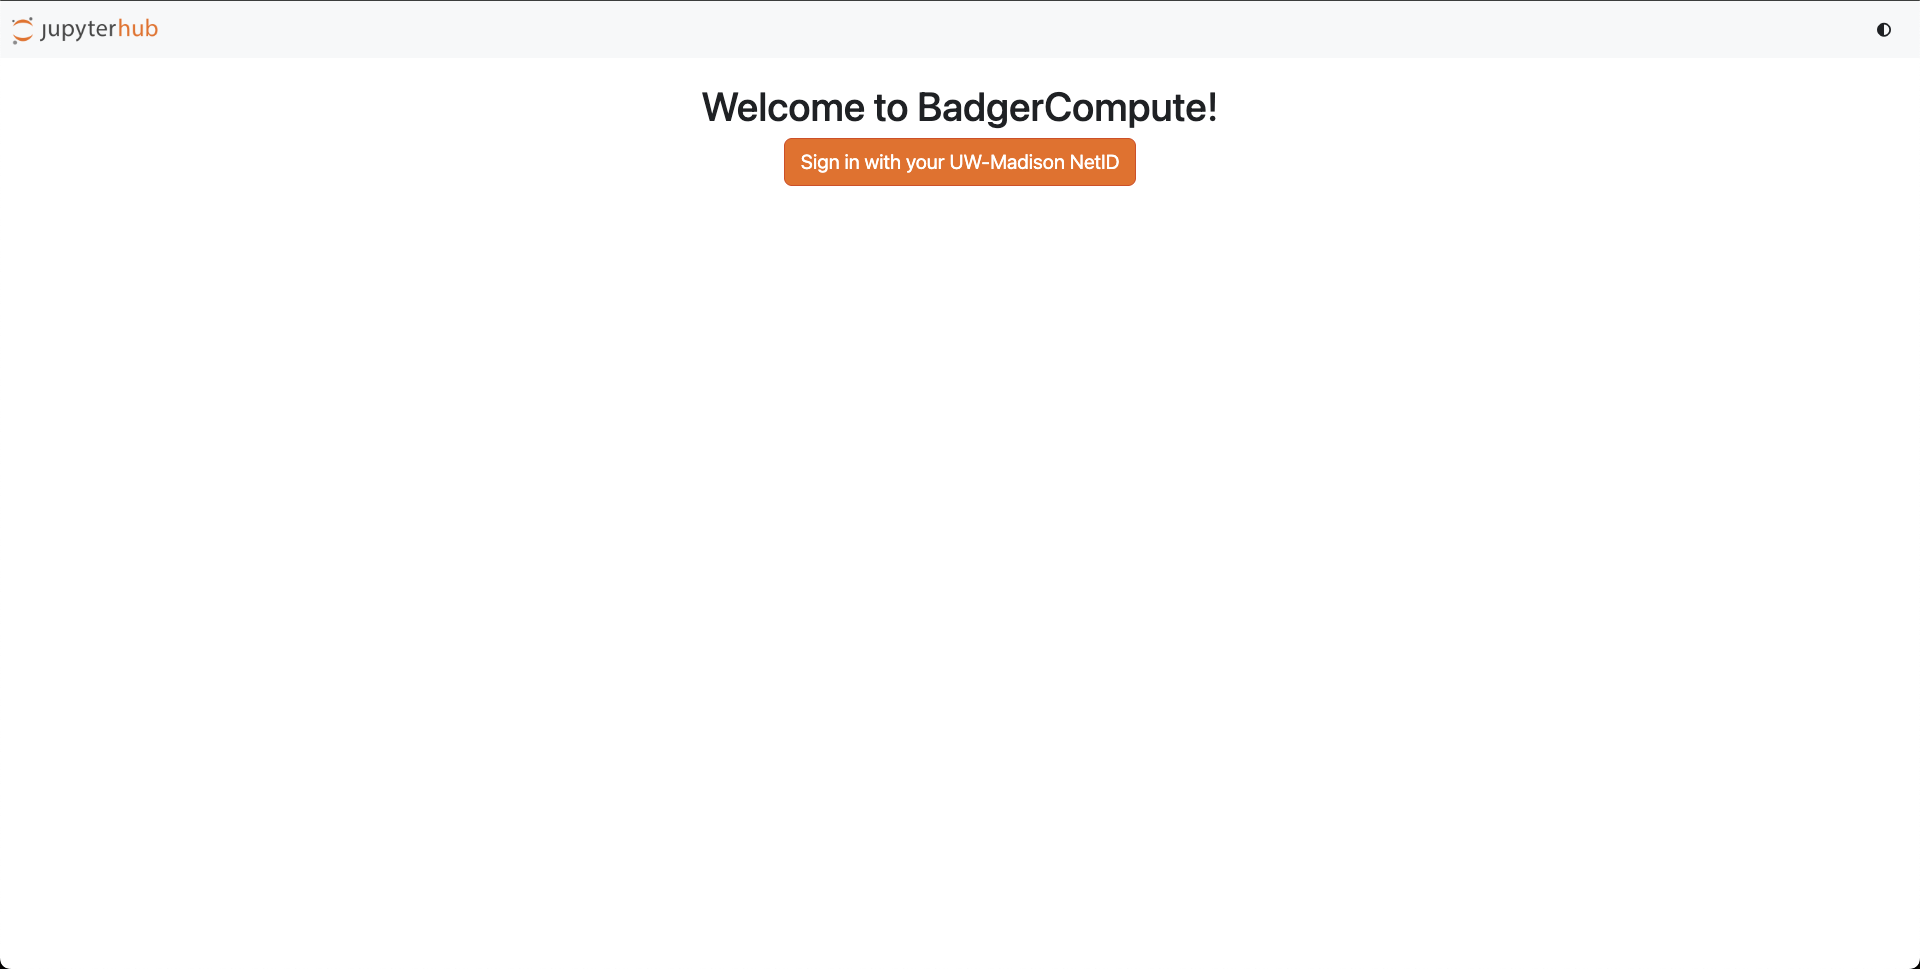
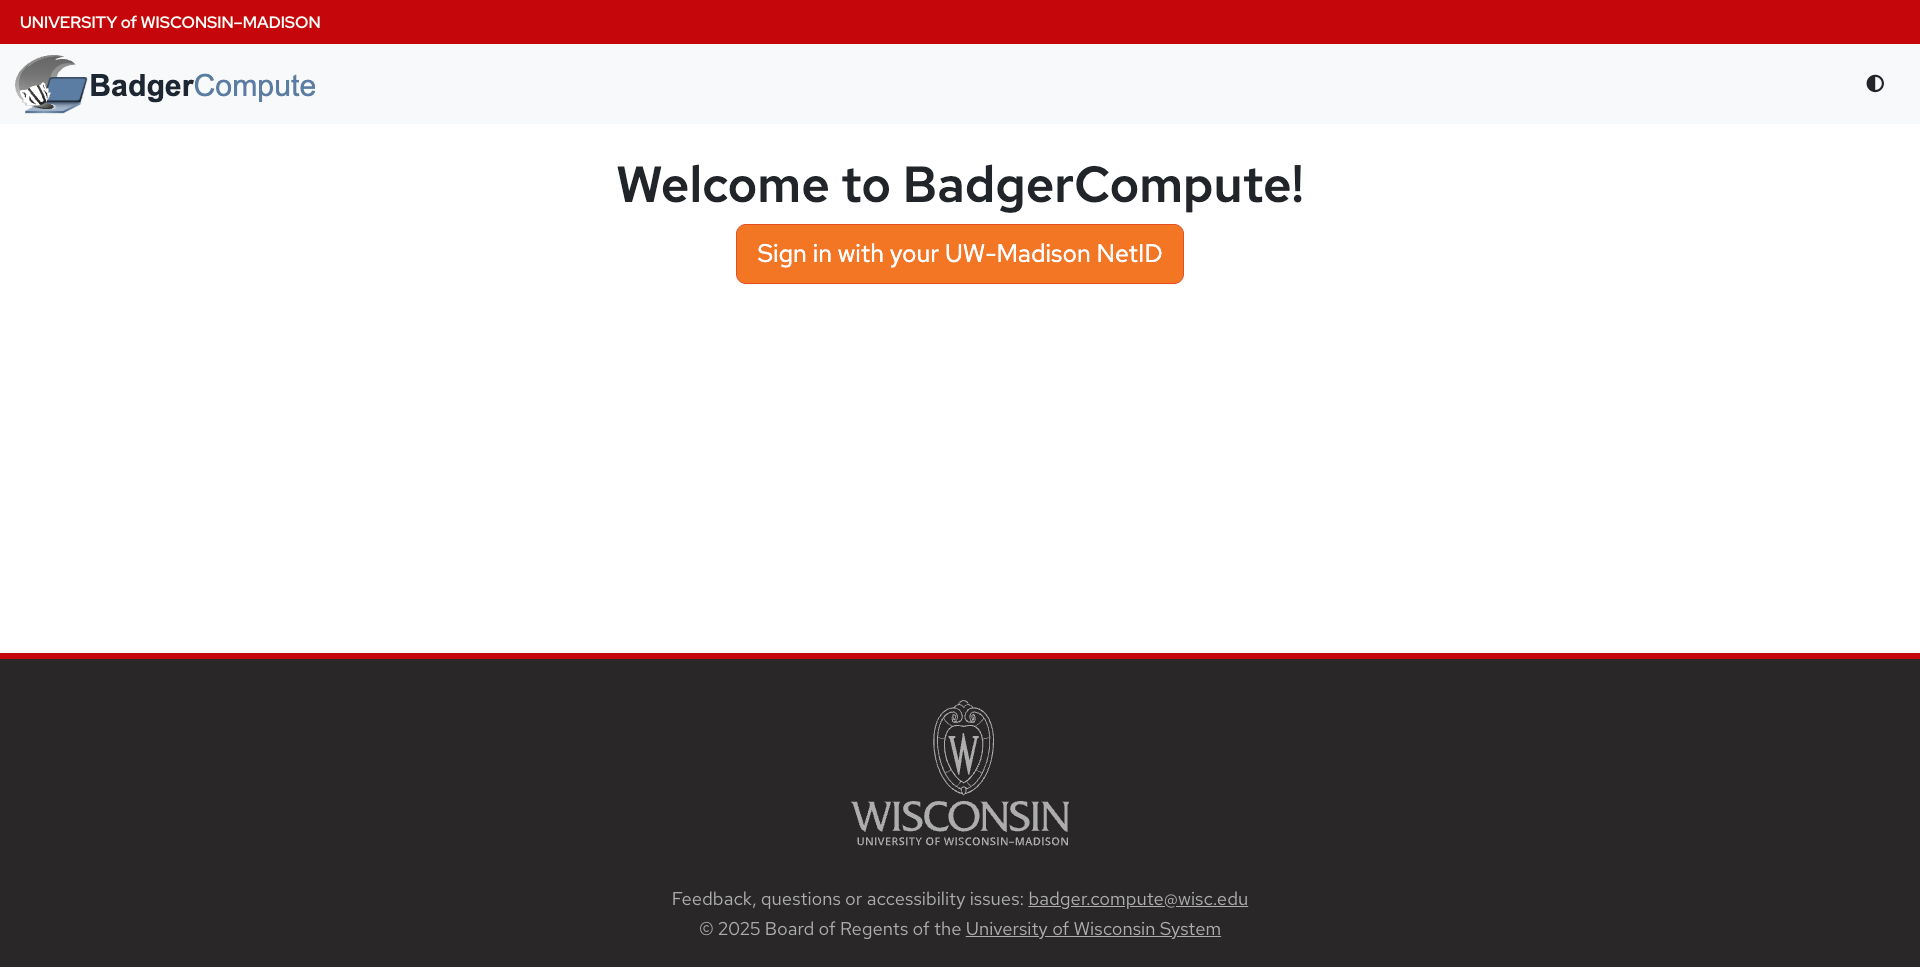
Updated login guide with alerts for 2FA and troubleshooting tips and images.

diff --git a/docs/login.md b/docs/login.md
@@ -1,3 +1,7 @@
+import Alert from "@mui/material/Alert";
+import AlertTitle from "@mui/material/AlertTitle";
+import AlertDropDown from "@/components/AlertDropDown";
+
 # Log in to BadgerCompute
 
 Use this guide to sign in to **BadgerCompute**, our Jupyter notebook service, and launch your notebook server.
@@ -17,25 +21,28 @@ Use this guide to sign in to **BadgerCompute**, our Jupyter notebook service, an
 
 1. **Open the BadgerCompute Launch URL**
     
-    Visit the BadgerCompute launch page:  
-    [launch.badgercompute.wisc.edu](https://launch.badgercompute.wisc.edu){ .md-button }
+    Visit the BadgerCompute launch page:<br>  
+    <a href="https://launch.badgercompute.wisc.edu" >
+    <img src="/docs/get-started-login.png" alt="Log in an launch BadgerCompute" style={{height: '120px', width: 'auto'}} />
+    </a>
 
 2. **Click “Sign in with your UW-Madison NetID”**
 
     You’ll be redirected to the **UW-Madison Single sign-on** login page. Login with your NetID and password.
     
     ![Welcome-light](/docs/login-guide/Welcome-to-BadgerCompute-light.png)
-    ![Welcome-dark](/docs/login-guide/Welcome-to-BadgerCompute-Dark.png)
 
 3. **Return to BadgerCompute**
 
     After successful SSO, you’ll land back on the **JupyterHub** page for BadgerCompute.
     
     ![Image title](/docs/login-guide/netid-login.png)
-
-    ??? tip "Two Factor Authentication (2FA)"
-        You will likely be prompted for 2FA to approve the sign-in via Duo or your chosen method. <br><br>
+    
+    <Alert severity="info" sx={{ mb: 3 }}>
+      <AlertTitle>Two Factor Authentication (2FA)</AlertTitle>
+      You will likely be prompted for 2FA to approve the sign-in via Duo or your chosen method. <br><br>
         ![Image title](/docs/login-guide/Duo-code.png)
+    </Alert>
 
 4. **(First time only) Review/accept any terms (if applicable)** 
 
@@ -51,9 +58,8 @@ Use this guide to sign in to **BadgerCompute**, our Jupyter notebook service, an
      * Other Docker image (advanced)
      * Build your own image (advanced)
 
-     ![Image title](/docs/login-guide/select-notebook-template-light.png#only-light)
-     ![Image title](/docs/login-guide/select-notebook-template-dark.png#only-dark)
-   
+     ![Image title](/docs/login-guide/select-notebook-template-light.png) 
+
      Select the option that fits your workload and click **Start**.
 
 
@@ -61,17 +67,18 @@ Use this guide to sign in to **BadgerCompute**, our Jupyter notebook service, an
 
     You’ll see **“Your server is starting up…”** for ~30–90 seconds (longer during peak times). When ready, you’ll land in **JupyterLab**.
     
-    ![Image title](/docs/login-guide/notebook-starting-light.png#only-light)
-    ![Image title](/docs/login-guide/notebook-starting-dark.png#only-dark)
-   
-    ???+ warning "If it takes too long"
-        If it takes >3 minutes, refresh the page once. If it still doesn’t start, try a different image. Please note, servers may take longer to start during peak usage times. BadgerCompute is a shared resource and availability is not guaranteed.
+    ![Image title](/docs/login-guide/notebook-starting-light.png)
+
+    <Alert severity="info" sx={{ mb: 3 }}>
+      <AlertTitle>If it takes too long</AlertTitle>
+      YIf it takes >3 minutes, refresh the page once. If it still doesn’t start, try a different image. Please note, servers may take longer to start during peak usage times. BadgerCompute is a shared resource and availability is not guaranteed.
+    </Alert>
 
 9. **You’re in!** Start working in JupyterLab.
     
     You can create notebooks, open terminals, and manage files. 
     
-    ![Image title](/docs/login-guide/jupyter-lab.png){ align=left }
+    ![Image title](/docs/login-guide/jupyter-lab.png)
 
 
 ## After you log in
@@ -81,24 +88,29 @@ data analysis!
 - **Your files live in your home directory.** Anything under your home persists across restarts unless otherwise noted by your site’s storage policy.
 - **To end your session:** _File → Log Out_ (JupyterLab) and optionally **Stop My Server** on the Hub page to free resources.
 
-!!! tip "Come back later"
-    Bookmark the link [launch.badgercompute.wisc.edu](https://launch.badgercompute.wisc.edu). When you return, you’ll usually go straight in via SSO unless your session expired (you’ll be prompted to sign in again). Your notebook may be stopped if idle, but files in your `/work` directory persist for 30 days.
+<Alert severity="success" sx={{ mb: 3 }}>
+  <AlertTitle>Come back later</AlertTitle>
+  Bookmark the link [launch.badgercompute.wisc.edu](https://launch.badgercompute.wisc.edu). When you return, you’ll usually go straight in via SSO unless your session expired (you’ll be prompted to sign in again). Your notebook may be stopped if idle, but files in your `/work` directory persist for 30 days.
+</Alert>
 
 ## Troubleshooting
 
-??? summary "I get a "**Not Authorized**" page"
+<AlertDropDown title="I get a **Not Authorized** page" severity="error">
     Your account may not be provisioned yet. You must complete the Canvas course and pass all checks before your account can be created. Accounts may take upto 24hrs to be activated. If you believe this is in error, contact support (see below).
+</AlertDropDown>
 
-??? summary "Stuck on "**Server starting…**""
-    Refresh the page once. If it persists for >2–3 minutes:<br>
+<AlertDropDown title="Stuck on **Server starting…**" severity="error">
+	Refresh the page once. If it persists for >2–3 minutes:<br>
     1) Click **Stop My Server**,  
     2) Click **Start My Server** again,  
     3) If it still fails, try a different server size or image and contact support with the approximate time and chosen options.
-    
+    <br><br>
     **Note: Servers may take longer to start during peak usage times. BadgerCompute is a shared resource and availability is not guaranteed.**
+</AlertDropDown>
 
-??? summary "I am getting a "400 : Bad Request" error"
+<AlertDropDown title="I am getting a 400: Bad Request" error" severity="error">
     This can happen if you already have an active session and try to start a new one. You can return to your previous session or stop it from the [Hub page](https://badgerhub.jupyter-uw-prod.chtc.io/hub/home). If the issue persists, try logging out and back in, or clear your cookies.
+</AlertDropDown>
 
 
 ## Sign-out, timeouts, and idle culling
